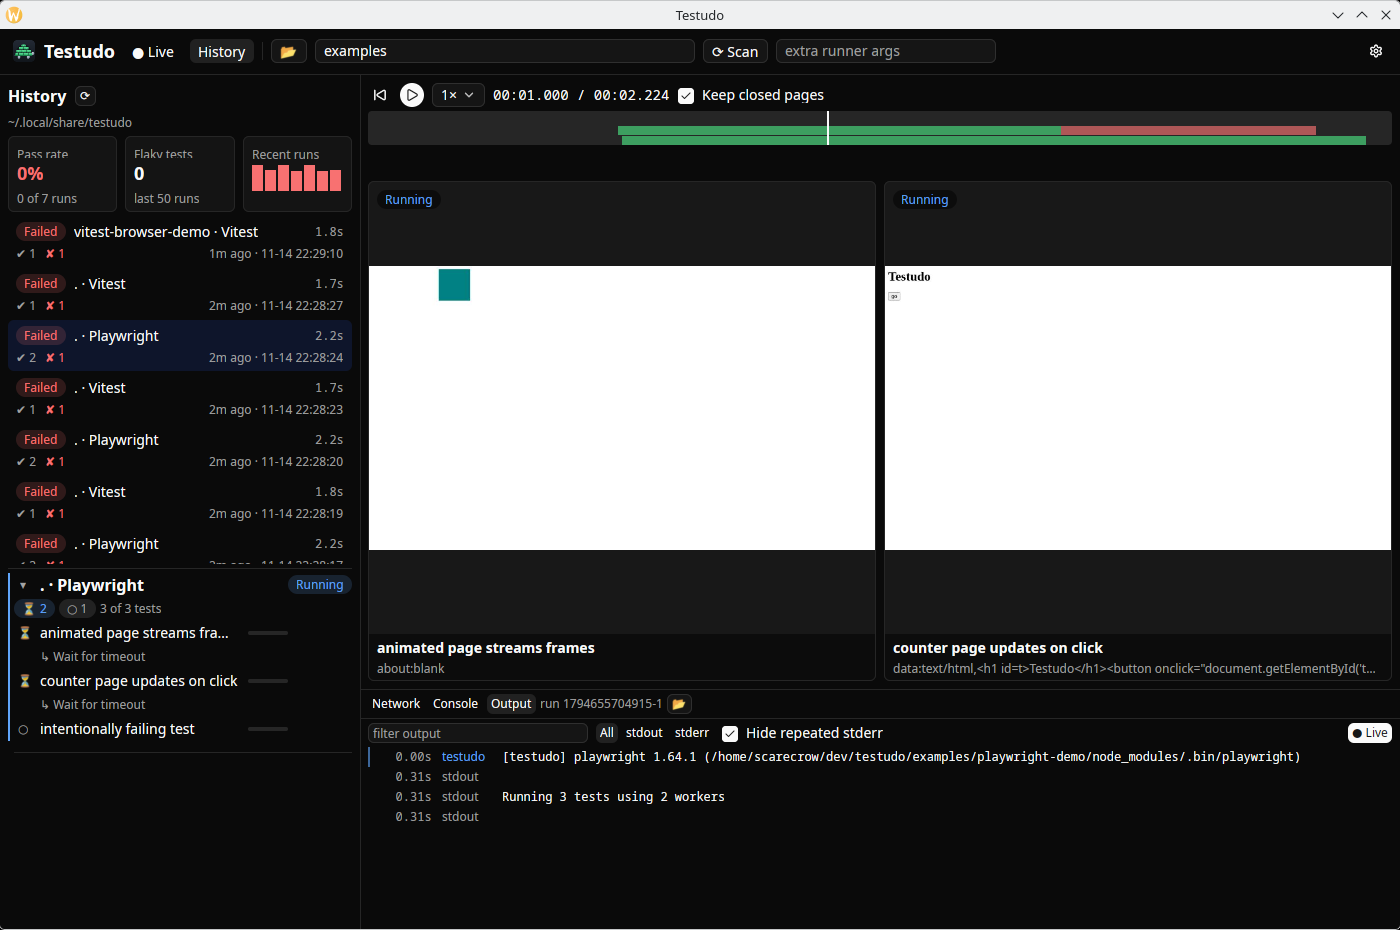
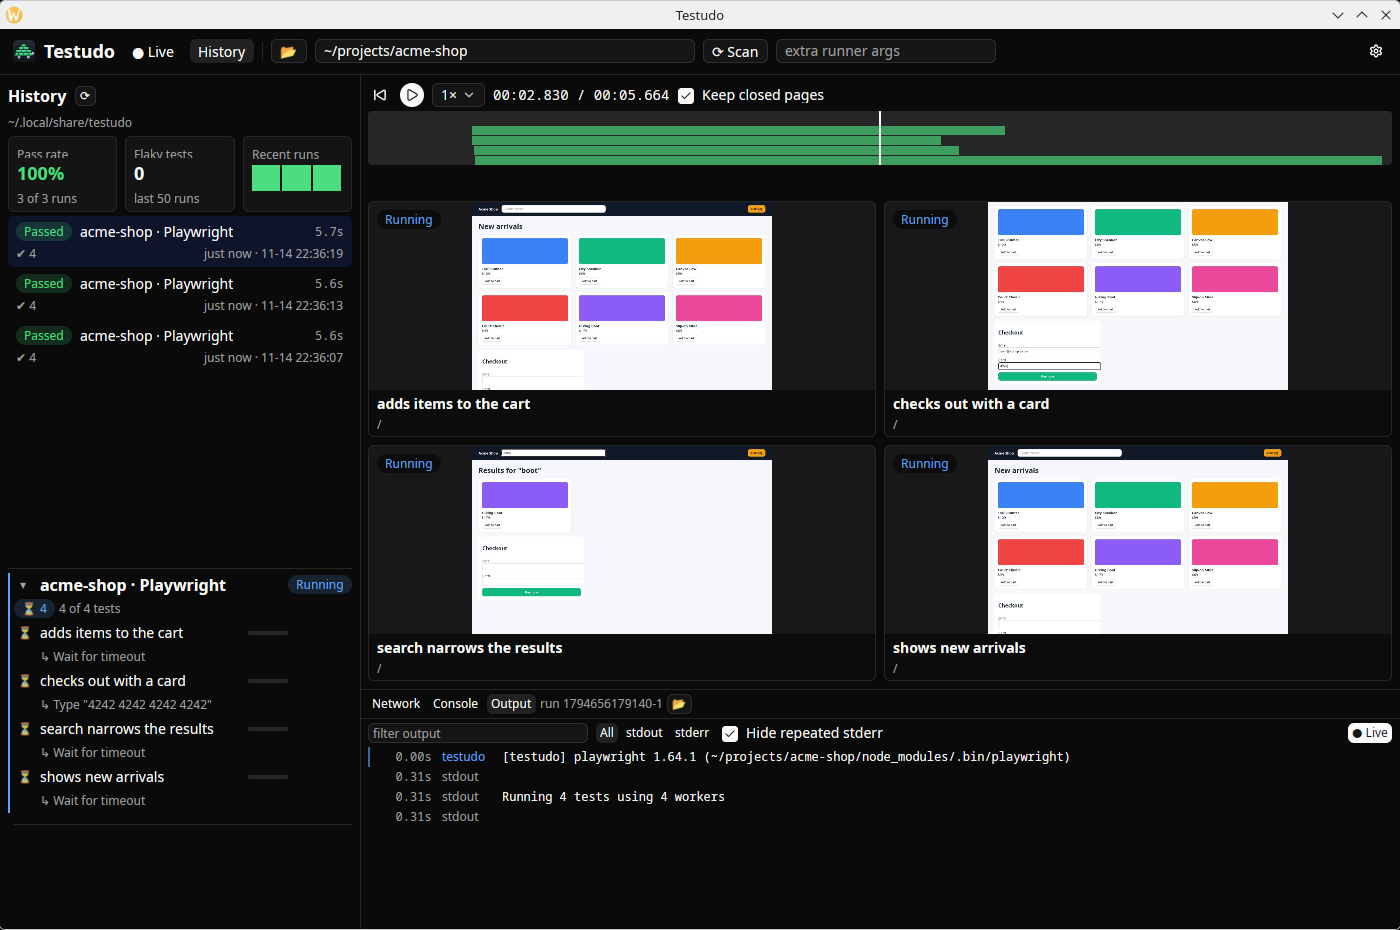
README: retake screenshots with a passing showcase suite
The earlier shots used the bundled examples, whose deliberately failing
tests made every screenshot show failures. These come from a small
passing Playwright suite (a mock shop served through page.route, with
real-looking requests and console output), taken in a virtual KWin
session.

diff --git a/README.md b/README.md
@@ -2,7 +2,7 @@
 
 Native GUI test runner that controls, monitors and reports on multiple concurrent test suites, with live views of the headless browsers they drive.
 
-![Testudo running a Playwright and a Vitest suite: live browser pages in the grid, running, pending and failed tests in the sidebar, runner output below](docs/screenshots/live.png)
+![Testudo running a Playwright suite: one test still running in a live browser page, finished pages beside it, the tests in the sidebar and runner output below](docs/screenshots/live.png)
 
 ## Compatibility
 
